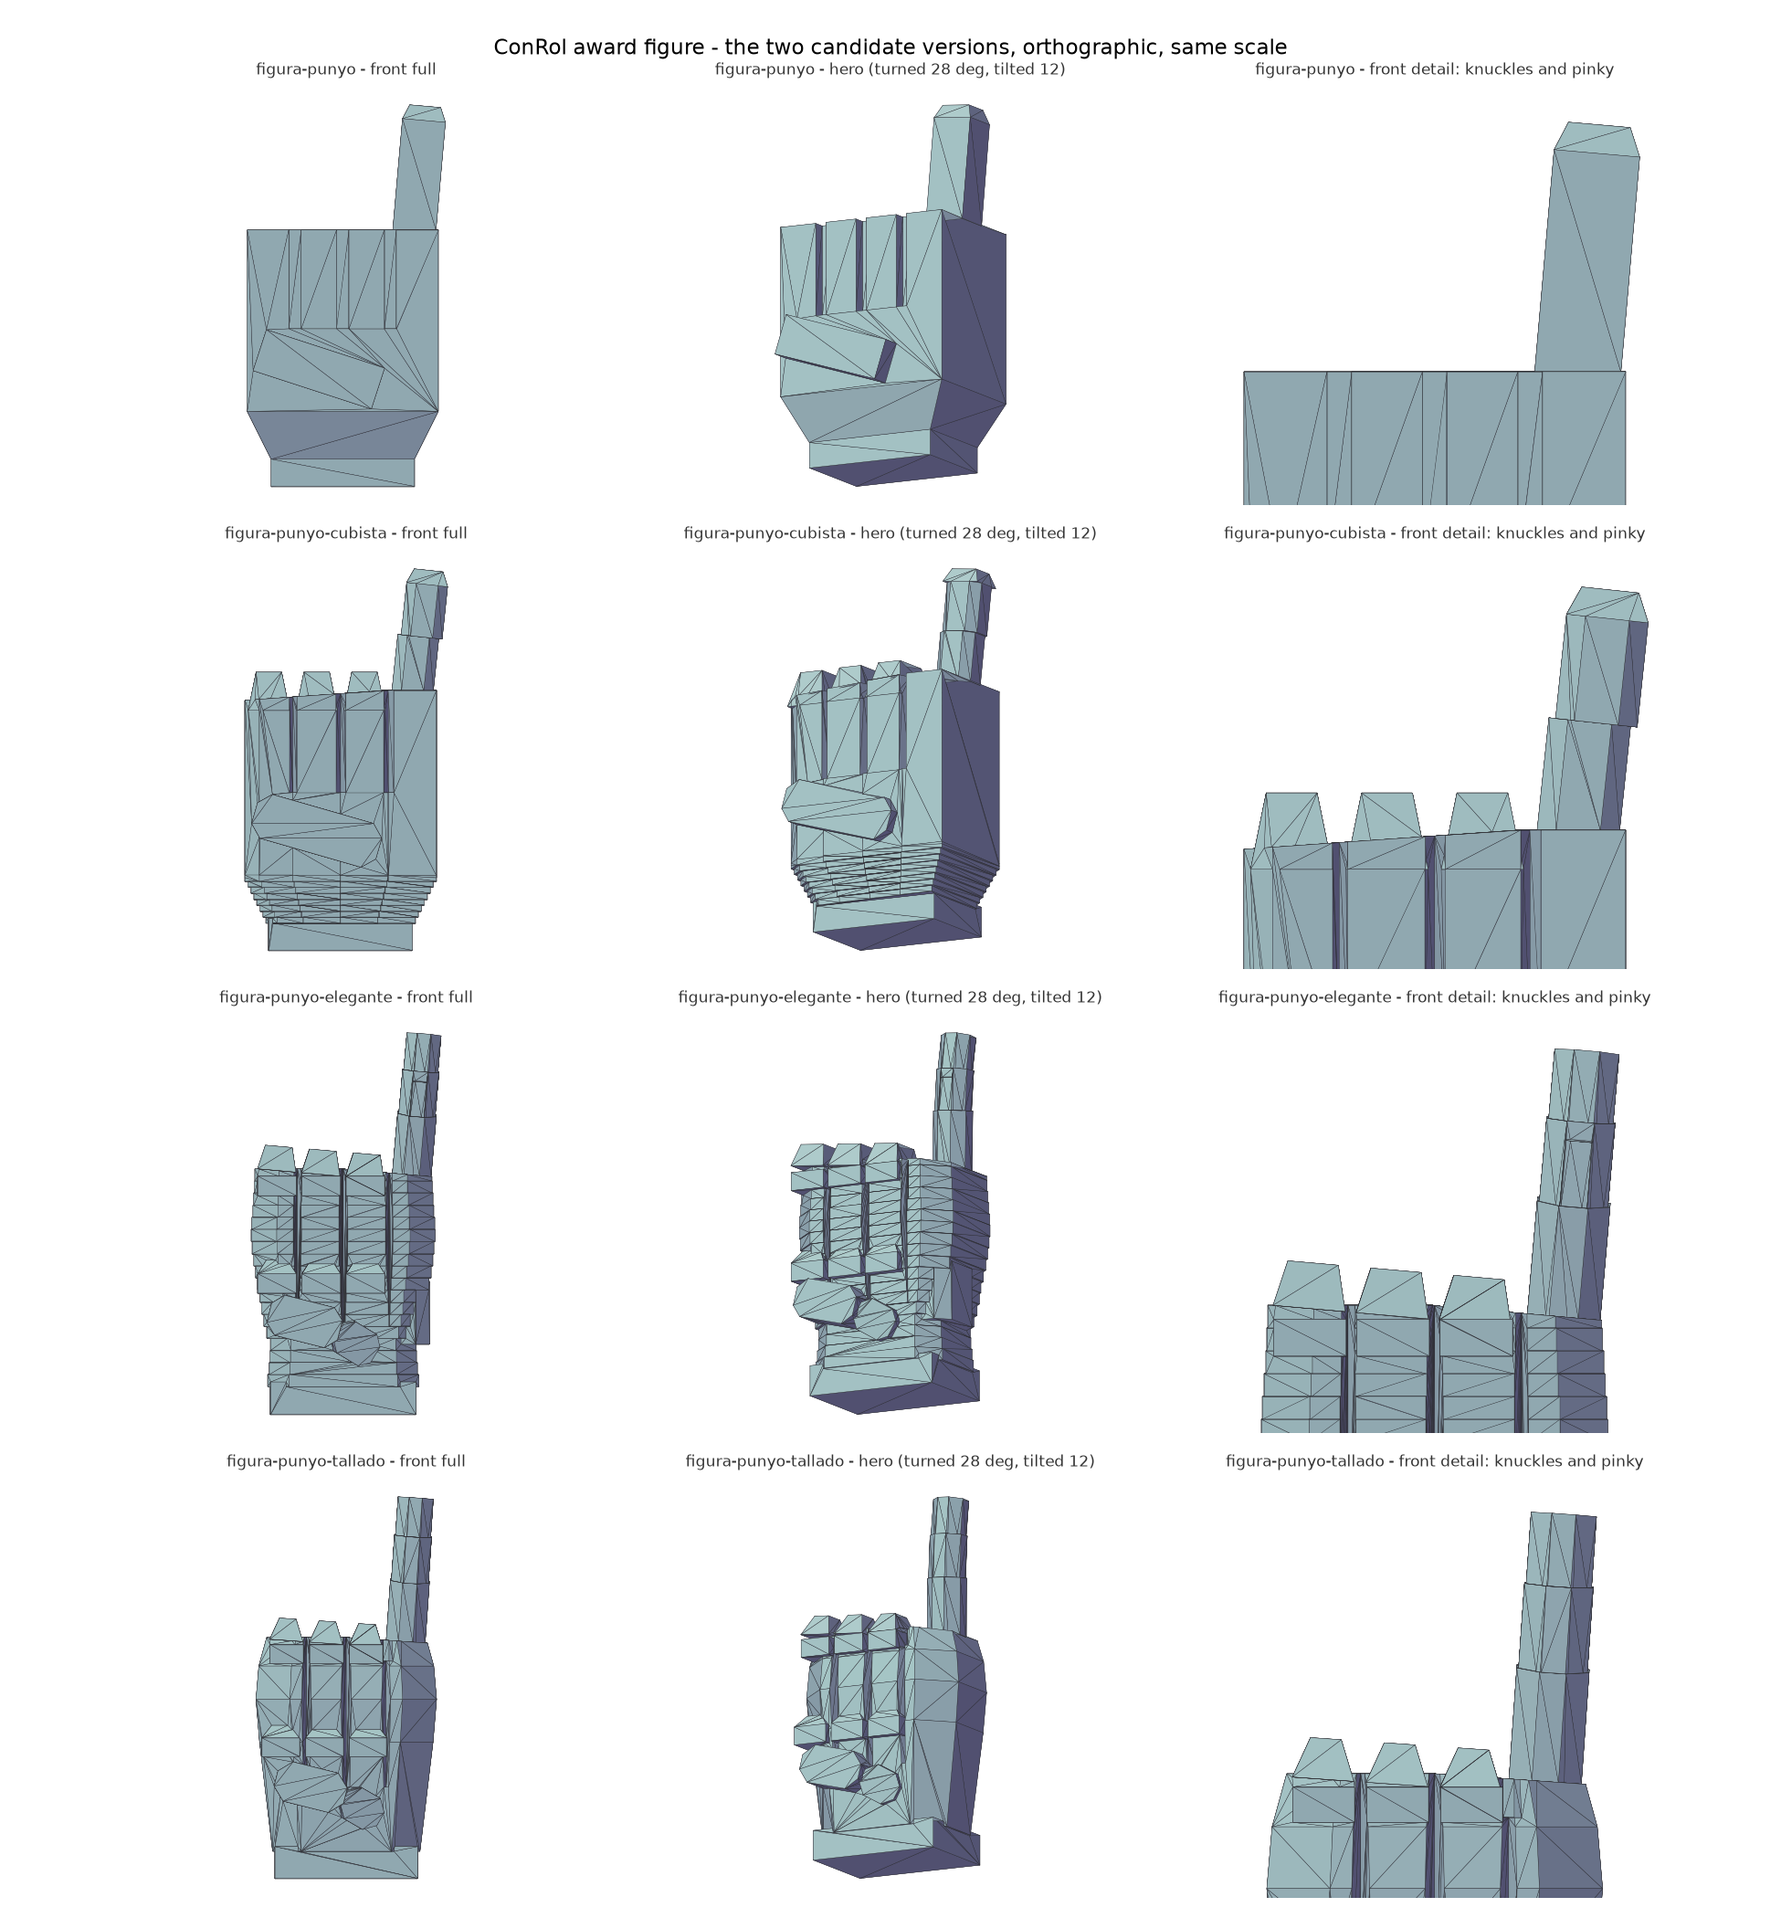
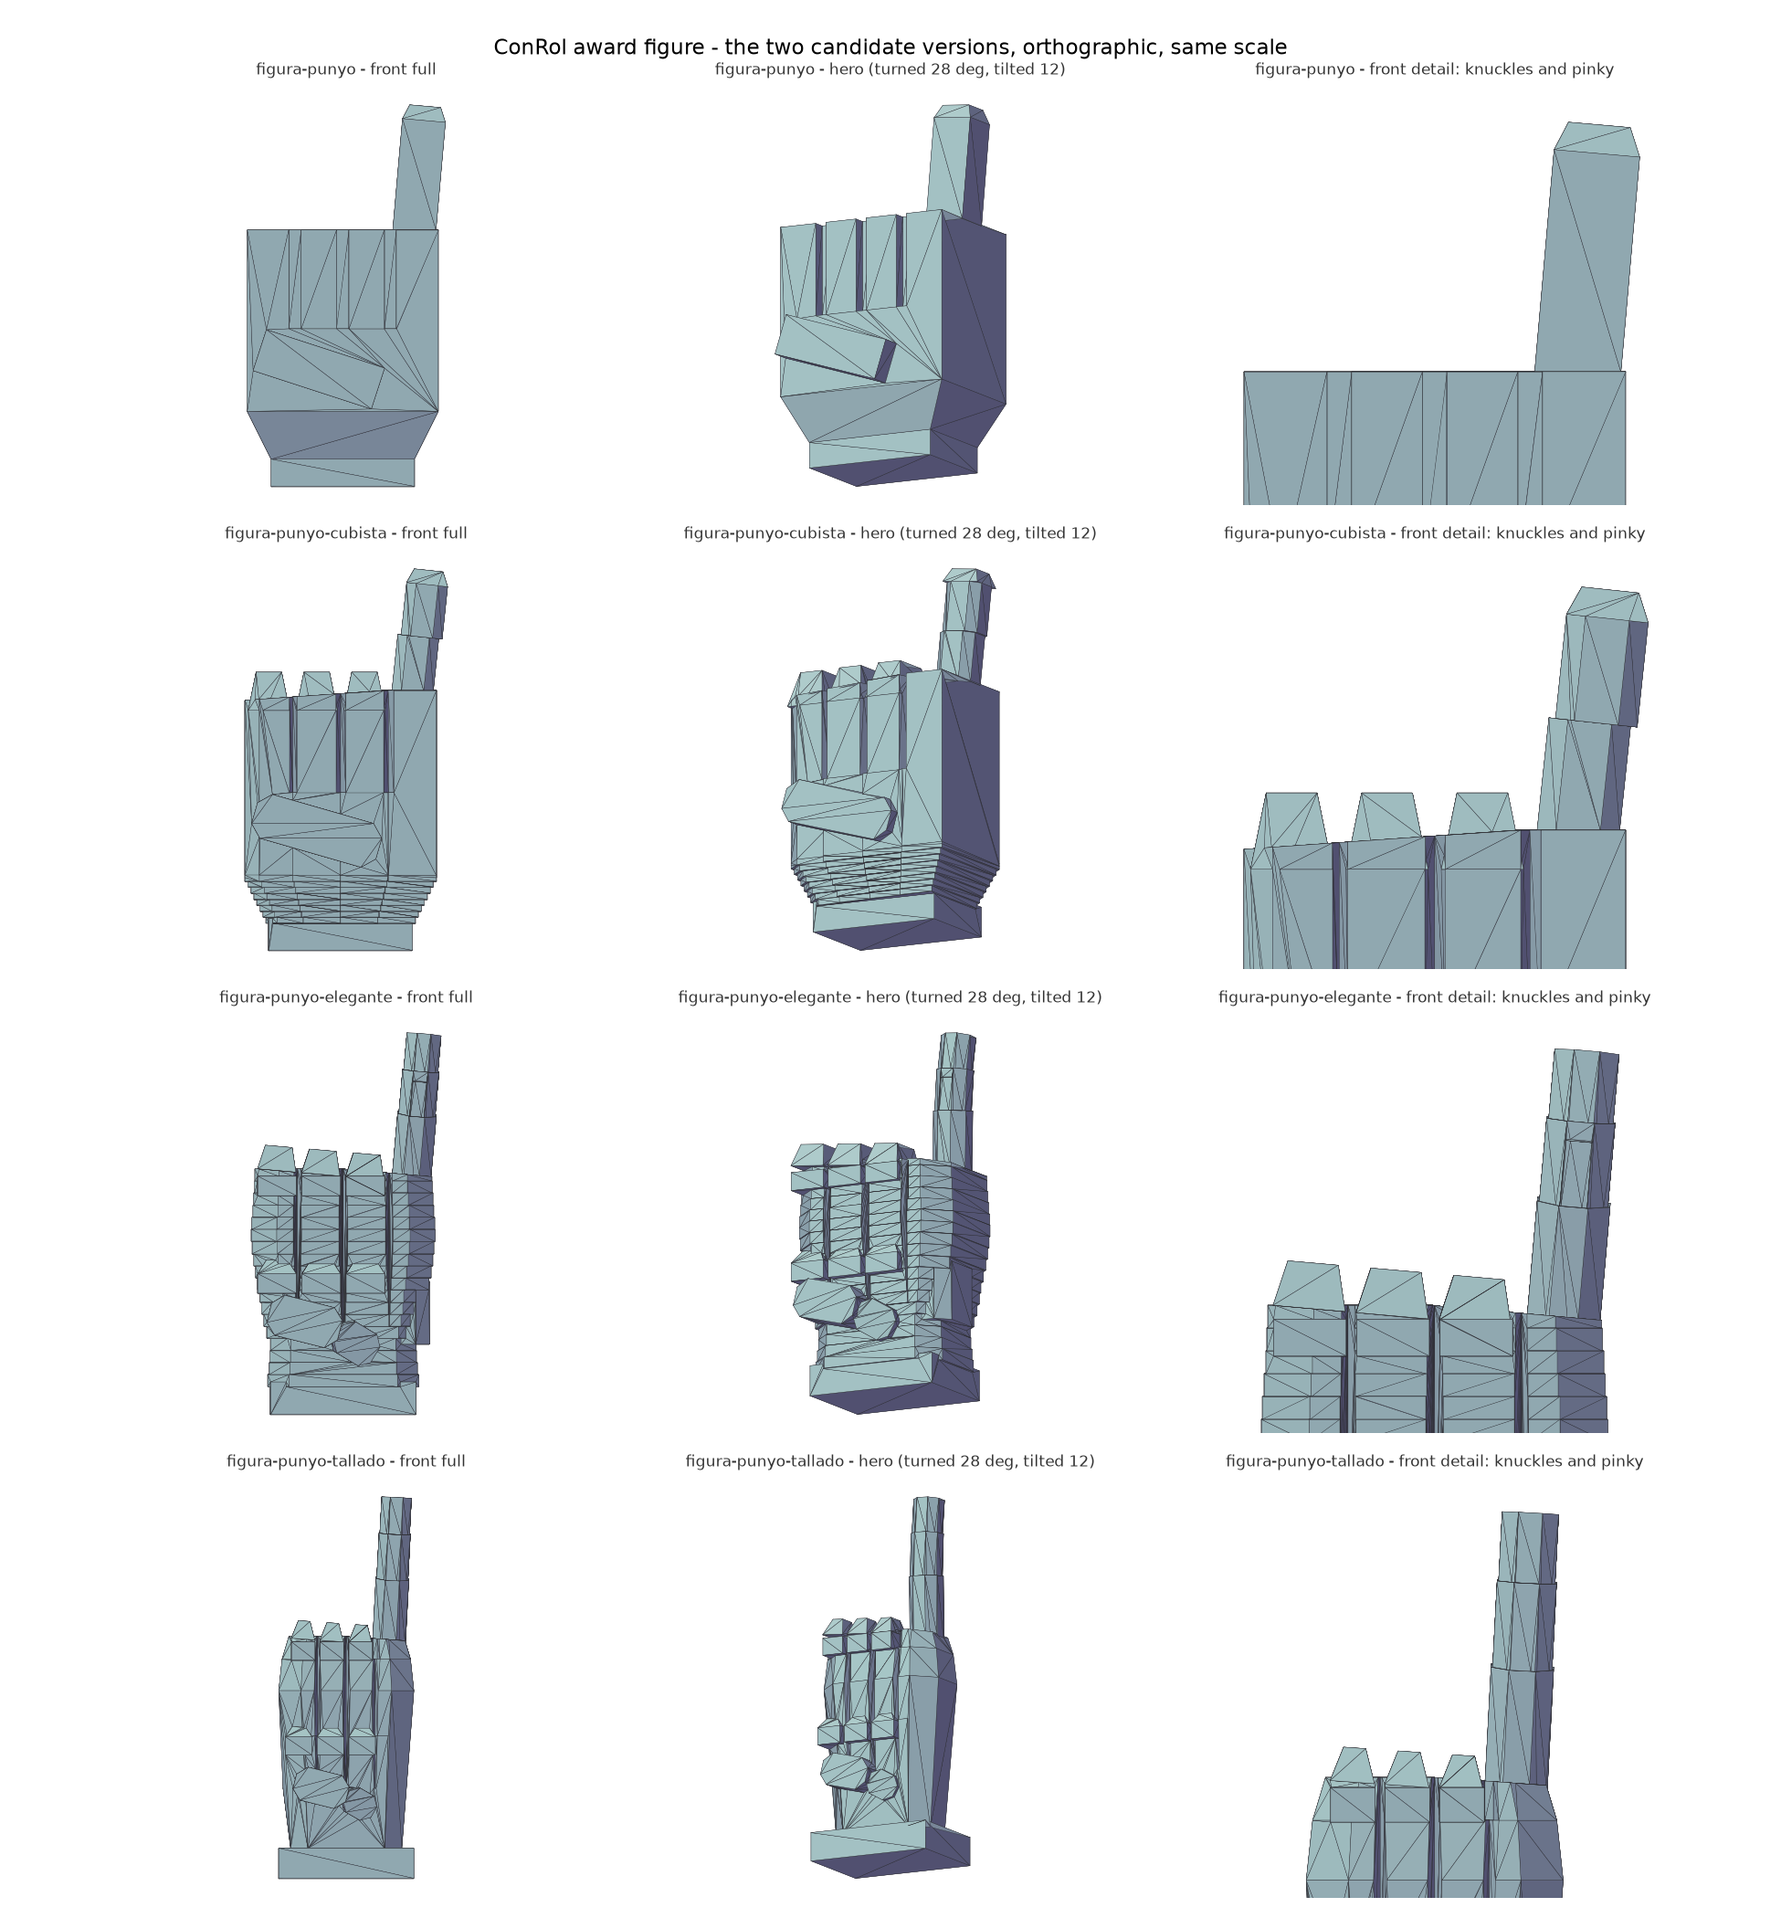
fix(premios): version 4 was measurably a box, and here is why
Yachar looked at the render and said it had nothing to do with the reference -
"este ultimo cubo". No image was available to compare against directly (the
same limitation as every prior turn), so the fix came from auditing the
geometry that was actually built rather than guessing again blind: every
section ring in ROUGH_RINGS had almost the same width:depth ratio (1.35-1.40),
and the body was only 1.18x taller than it was wide. Uniformly scaling one
rectangle seven times is, measurably, a box - independent of the pinky, the
grooves, or anything else about the pose. All the automatic checks passed
because they prove structural facts (four fingers exist, the pinky stands
alone), none of which is "does this read as an elegant hand."

Fixed two ways, both visible in ROUGH_RINGS: height:width goes from 1.18 to
1.60, and the width:depth ratio now varies per ring (1.52-1.75) instead of
holding constant, so the hull is not one shape scaled uniformly seven times. A
thenar bump - one extra hull point on the thumb side - breaks the flat side
profile. The little finger grew from 29.5 to 31 mm to stand proportionally
taller against the now slimmer hand.

Every dependent dimension (thumb, knuckle row, grooves, separation notch,
pinky) was rescaled to the new proportions rather than left oversized on a
smaller hand. Net effect: 26.9 cm3 against the previous 43.2 cm3, 758 faces
against 800, and an award height of 105 mm instead of 100 - 5 mm taller because
[…]

Changed region(s): [[0.7077, 0.7738, 0.9231, 0.9905], [0.4308, 0.7738, 0.5538, 0.9905], [0.1231, 0.7738, 0.2462, 0.9905]]

diff --git a/premios/scripts/fist_carved.py b/premios/scripts/fist_carved.py
@@ -35,16 +35,27 @@ from shapely.geometry import Polygon
 
 from geometry_common import BOOL_OVERSHOOT_MM, box_at, chamfered_rect, extrude, rectangular_frustum
 
-# The rough-out: (height above the tenon, width, depth). Seven rings, so the
-# facets between them are 6 to 9 mm tall - big enough to read as carved planes.
+# The rough-out: (height above the tenon, width, depth).
+#
+# REVISION: the first attempt made every ring the same width:depth ratio
+# (1.35-1.40 across all seven levels) and a body only 1.18x taller than it was
+# wide. That is, measurably, a box: uniformly scaling one rectangle at every
+# height reads as a box no matter how the corners are chamfered, independently
+# of anything about the pinky or the grooves. Nobody needed to see the render to
+# find that - it is visible in the numbers.
+#
+# Fixed two ways: the height:width ratio goes from 1.18 to 1.6 (a hand is
+# narrow next to how tall it stands, wrist to knuckles), and the width:depth
+# ratio now varies per ring (1.52-1.75) instead of holding constant, so the hull
+# is not one shape scaled uniformly seven times.
 ROUGH_RINGS: tuple[tuple[float, float, float], ...] = (
-    (0.0, 31.0, 23.0),
-    (6.0, 29.0, 21.5),
-    (14.0, 33.0, 24.5),
-    (23.0, 36.5, 26.5),
-    (32.0, 38.0, 27.5),
-    (39.0, 36.8, 26.4),
-    (45.0, 33.5, 24.0),
+    (0.0, 24.5, 14.5),
+    (7.0, 21.0, 12.0),
+    (16.0, 25.0, 16.5),
+    (26.0, 28.0, 18.0),
+    (36.0, 30.0, 19.0),
+    (43.0, 28.5, 17.5),
+    (48.0, 25.5, 15.5),
 )
 
 
@@ -62,57 +73,65 @@ class FistCarved:
 
     # Fingers: a loose fist, so the grooves are cut but not deep.
     fingers: int = 4
-    groove_width: float = 3.0
-    groove_depths: tuple[float, ...] = (3.2, 4.0, 2.6)
+    groove_width: float = 2.5
+    groove_depths: tuple[float, ...] = (2.4, 3.1, 2.0)
     groove_bottom_fraction: float = 0.30
 
     # The notch that frees the little finger from the hand. Without it the
     # reference's outline - a finger standing clear of the fist - is lost.
-    separation_width: float = 4.2
-    separation_depth: float = 4.4
-    separation_rise: float = 13.0
+    separation_width: float = 3.4
+    separation_depth: float = 3.6
+    separation_rise: float = 13.5
 
     # Knuckles: facets, not blocks. A steeper pyramid than the third version's,
     # so they read as chiselled planes.
-    knuckle_height: float = 4.6
-    knuckle_depth: float = 10.5
-    knuckle_gap: float = 1.4
+    knuckle_height: float = 4.0
+    knuckle_depth: float = 8.5
+    knuckle_gap: float = 1.2
     knuckle_top_scale: float = 0.50
     knuckle_rise: float = 0.8
     articulation_sink: float = 4.0
-    phalange_height: float = 2.6
-    phalange_depth: float = 8.0
+    phalange_height: float = 2.3
+    phalange_depth: float = 6.5
     phalange_top_scale: float = 0.48
     phalange_center_fraction: float = 0.56
 
     top_tilt_deg: float = 4.0
 
-    # Thumb, crossing the front in two faceted segments.
-    thumb_length: float = 15.0
-    thumb_thickness: float = 8.5
-    thumb_depth: float = 12.0
-    thumb_proud: float = 3.4
-    thumb_chamfer: float = 2.6
+    # Thumb, crossing the front in two faceted segments. Scaled down with the
+    # slimmer hand (0.79x the old width) so it stays in proportion.
+    thumb_length: float = 12.0
+    thumb_thickness: float = 7.5
+    thumb_depth: float = 10.0
+    thumb_proud: float = 2.8
+    thumb_chamfer: float = 2.1
     thumb_angle_deg: float = 14.0
-    thumb_center_x: float = -7.5
+    thumb_center_x: float = -5.6
     thumb_center_fraction: float = 0.30
-    thumb_tip_length: float = 9.0
-    thumb_tip_thickness: float = 7.5
+    thumb_tip_length: float = 7.2
+    thumb_tip_thickness: float = 6.2
     thumb_tip_dip_deg: float = 16.0
     thumb_tip_curl_deg: float = 11.0
-    thumb_tip_overlap: float = 2.0
+    thumb_tip_overlap: float = 1.7
+
+    # Thenar pad: the thumb-side bulge, baked into the rough-out itself (see
+    # `_thenar_bump`) rather than glued on, so the side profile is not flat.
+    thenar_center_fraction: float = 0.30
+    thenar_proud: float = 1.9
 
     # Little finger: fully extended, as in the reference, so the flexion is a
     # hint rather than a curl - but it must still be measurable, because a
-    # straight digit reads as a rod and not as a gesture.
-    pinky_width: float = 8.2
-    pinky_depth: float = 8.2
-    pinky_chamfer: float = 2.6
-    pinky_phalanges: tuple[float, ...] = (12.0, 9.5, 8.0)
+    # straight digit reads as a rod and not as a gesture. Slightly longer than
+    # the third version's, because the reference shows it standing nearly as
+    # tall as the fist itself.
+    pinky_width: float = 7.3
+    pinky_depth: float = 7.3
+    pinky_chamfer: float = 2.1
+    pinky_phalanges: tuple[float, ...] = (13.0, 10.0, 8.0)
     pinky_flexion_deg: tuple[float, ...] = (7.0, -4.0, -4.0)
     pinky_taper: float = 0.95
-    pinky_lean_deg: float = 4.0
-    pinky_joint_overlap: float = 2.5
+    pinky_lean_deg: float = 3.0
+    pinky_joint_overlap: float = 2.2
 
     # --- derived -----------------------------------------------------------
 
@@ -208,6 +227,19 @@ def _columns(width: float, fingers: int) -> list[tuple[float, float]]:
     return [(-width / 2 + index * step, -width / 2 + (index + 1) * step) for index in range(fingers)]
 
 
+def _thenar_bump(spec: FistCarved) -> tuple[float, float, float]:
+    """One extra hull point: the thumb-side pad, so that side of the hand is
+    not a flat plane between the wrist and the knuckle line.
+
+    A single point pushed outward is a simplification of the thenar eminence,
+    not an anatomical study, but it is enough to break the flat side and it
+    costs nothing to verify: it only ever makes the hull wider on one side.
+    """
+    height = spec.thenar_center_fraction * ROUGH_RINGS[-1][0]
+    width, depth = profile_at(height)
+    return (-width / 2 - spec.thenar_proud, -depth * 0.1, spec.tenon_height + height)
+
+
 def _rough_out(spec: FistCarved) -> trimesh.Trimesh:
     """Convex hull of the section rings: the carved block before any cutting.
 
@@ -220,6 +252,7 @@ def _rough_out(spec: FistCarved) -> trimesh.Trimesh:
     for height, width, depth in ROUGH_RINGS:
         ring = chamfered_rect(width, depth, spec.ring_chamfer_ratio * min(width, depth))
         points.extend((x, y, spec.tenon_height + height) for x, y in ring.exterior.coords[:-1])
+    points.append(_thenar_bump(spec))
     hull = trimesh.Trimesh(vertices=np.array(points, dtype=float), process=False).convex_hull
     return hull
 

diff --git a/premios/scripts/build_premios.py b/premios/scripts/build_premios.py
@@ -571,13 +571,14 @@ def main() -> int:
         validate(figure, f"{slug}.stl")
         figure.export(OUT_DIR / f"{slug}.stl")
         report_budget(figure, f"{slug}.stl")
-    tenon = figures[0][1]
-    print(
-        f"         tenon {tenon.tenon_width}x{tenon.tenon_depth}x{tenon.tenon_height} mm "
-        f"into the {pedestal_spec.socket_width}x{pedestal_spec.socket_depth}"
-        f"x{pedestal_spec.socket_recess} mm socket; "
-        f"award height {pedestal_spec.height + tenon.top_z - tenon.tenon_height:.0f} mm"
-    )
+        # Report per figure: the four versions no longer share one height, and
+        # printing the first one's number for all of them would misreport it.
+        print(
+            f"         tenon {figure_spec.tenon_width}x{figure_spec.tenon_depth}"
+            f"x{figure_spec.tenon_height} mm into the {pedestal_spec.socket_width}x"
+            f"{pedestal_spec.socket_depth}x{pedestal_spec.socket_recess} mm socket; "
+            f"award height {pedestal_spec.height + figure_spec.top_z - figure_spec.tenon_height:.0f} mm"
+        )
 
     for category in CATEGORIES:
         print(f"category: {category.slug}")

diff --git a/premios/scripts/verify_figure.py b/premios/scripts/verify_figure.py
@@ -75,7 +75,7 @@ PROFILE_EDGE_MARGIN_MM = 6.0
 # The brief asks for a *perceptible* gentle flexion, so it has to be measured
 # rather than asserted. The threshold is calibrated against all four models
 # instead of guessed: a straight finger bows 0.00 mm; the second version's two
-# offset segments - a step, not a curve - bow 0.17 mm; the flexed ones bow 0.38
+# offset segments - a step, not a curve - bow 0.17 mm; the flexed ones bow 0.36
 # (fourth version, nearly extended) and 0.51 mm (third version). 0.25 mm sits in
 # the gap, so this is a regression guard against someone straightening the pinky
 # by accident, not a perceptibility measure. Perceptibility is a matter of the

diff --git a/premios/README.md b/premios/README.md
@@ -100,21 +100,42 @@ is built the way a carver works:
    sloping top.
 3. **Add the digits that leave the mass**: the thumb and the little finger.
 
-The facet count is the point. Version 4 has **800 faces against version 3's
-1626** — half as many, twice as large.
-
 It also has the reference's notch: a wedge cut between the ring and little finger
 columns so the pinky stands clear of the fist instead of emerging from a ridge.
 
+#### Revision: the first attempt read as a box, and here is why
+
+The first build of this version passed every automatic check and still looked,
+in Yachar's words, like "a cube" next to the reference. The checks prove
+structural facts — four fingers exist, the pinky stands alone, the tenon fits —
+none of which is "does this read as an elegant hand," which no script here can
+judge. But the cube complaint pointed at something a script *can* catch: every
+section ring had almost the same width:depth ratio (1.35–1.40), and the body was
+only **1.18×** taller than it was wide. Uniformly scaling one rectangle seven
+times is, measurably, a box, independent of the pinky, the grooves, or anything
+else about the pose.
+
+Fixed two ways, both visible in `ROUGH_RINGS`: the height:width ratio goes from
+1.18 to **1.60**, and the width:depth ratio now varies per ring (1.52–1.75)
+instead of holding constant, so the hull is not one shape scaled uniformly. A
+thenar bump — one extra hull point on the thumb side — was also added so that
+side of the hand is not a flat plane. The little finger grew slightly (31 mm
+against 29.5 mm) to stand proportionally taller against the now slimmer hand, in
+line with the reference. Net effect: **26.9 cm³ against the previous 43.2**, and
+an award height of 105 mm instead of 100 — 5 mm taller because the pinky is
+longer, not because anything else changed shape. All checks below are for this
+revised geometry.
+
 | | V1 plain | V2 cubist | V3 tapered | V4 carved |
 |---|---|---|---|---|
-| Body | 40 × 30 × 38 | 40 × 30 × 38 | tapers 30 → 38 | rough-out hull, 29 → 38 |
-| Overall | 41.5 × 35 × 79.9 | 42.4 × 34 × 79.8 | 39.2 × 31.1 × 78.8 | 38.0 × 30.9 × 80.3 |
+| Body | 40 × 30 × 38 | 40 × 30 × 38 | tapers 30 → 38 | rough-out hull, 21 → 30, height:width 1.60 |
+| Overall | 41.5 × 35 × 79.9 | 42.4 × 34 × 79.8 | 39.2 × 31.1 × 78.8 | 30.0 × 23.3 × 84.7 |
 | Knuckle rows | 1 | 1 | **2** | **2** |
-| Pinky | 9 mm, straight | 8.6 mm, 2 offset | 8 mm, flexed 8/−5/−6 | 8.2 mm, flexed 7/−4/−4 |
-| Pinky axis bow | 0.00 mm | 0.17 mm | 0.51 mm | 0.38 mm |
-| Faces | 116 | 868 | 1626 | **800** |
-| Model volume | 61.3 cm³ | 62.5 cm³ | 44.4 cm³ | **43.2 cm³** |
+| Pinky | 9 mm, straight | 8.6 mm, 2 offset | 8 mm, flexed 8/−5/−6 | 7.3 mm, flexed 7/−4/−4 |
+| Pinky axis bow | 0.00 mm | 0.17 mm | 0.51 mm | 0.36 mm |
+| Faces | 116 | 868 | 1626 | **758** |
+| Model volume | 61.3 cm³ | 62.5 cm³ | 44.4 cm³ | **26.9 cm³** |
+| Award height | 100 mm | 100 mm | 99 mm | 105 mm |
 
 ### Making the raised finger read as the pinky
 
@@ -198,7 +219,7 @@ Measured model volumes and estimated filament ranges:
 | Figure v1 (chunky solid) | 61.3 cm³ | ~21 cm³ — the slicer infills it |
 | Figure v2 (chunky solid) | 62.5 cm³ | ~21 cm³ |
 | Figure v3 (tapered solid) | 44.4 cm³ | ~17 cm³ |
-| Figure v4 (carved solid) | 43.2 cm³ | ~16 cm³ |
+| Figure v4 (carved solid) | 26.9 cm³ | ~12 cm³ |
 | Plaque | 3.6 cm³ | ~3.6 cm³ |
 
 So **why keep the hollow?** Because it is not about saving filament. It buys an
